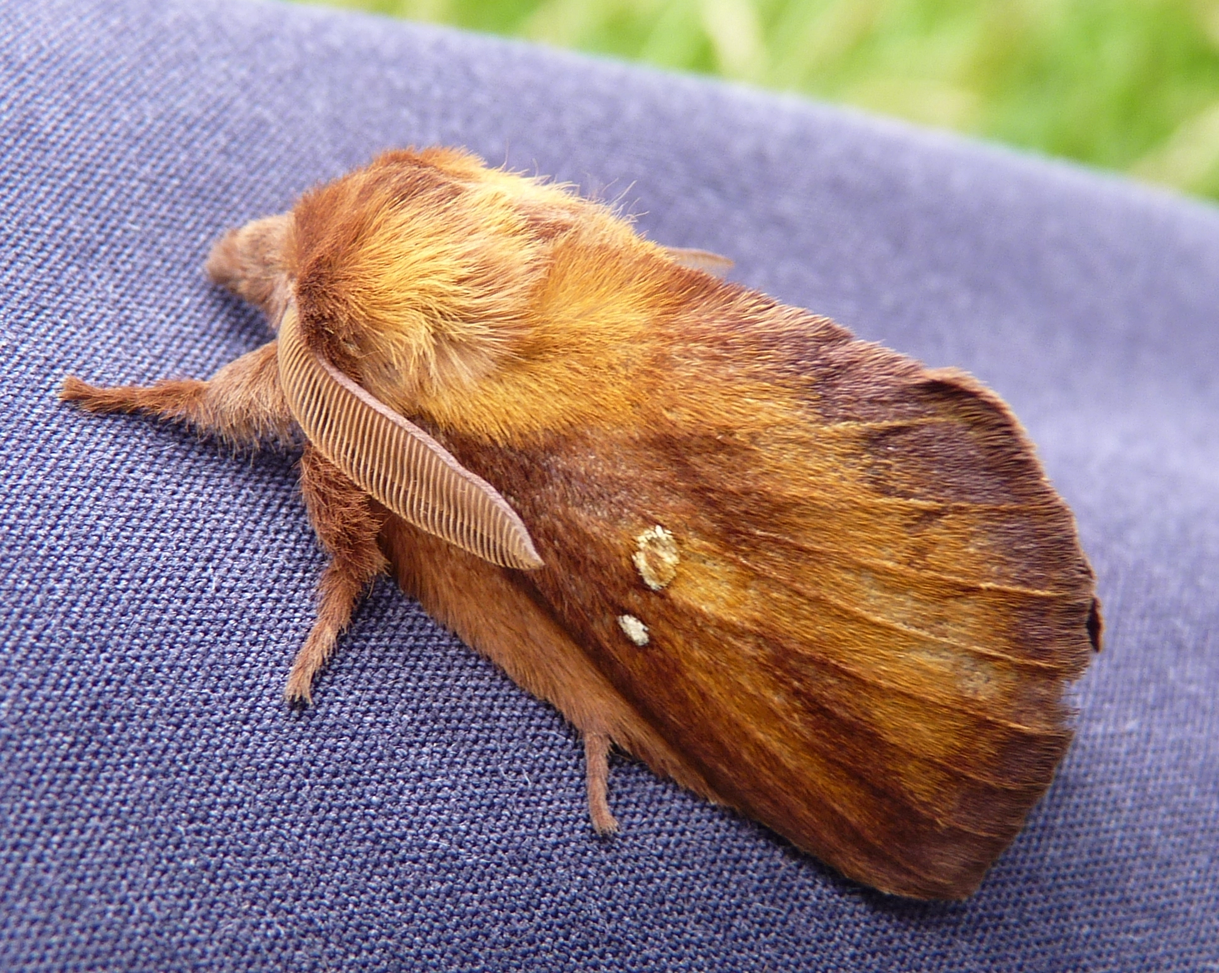
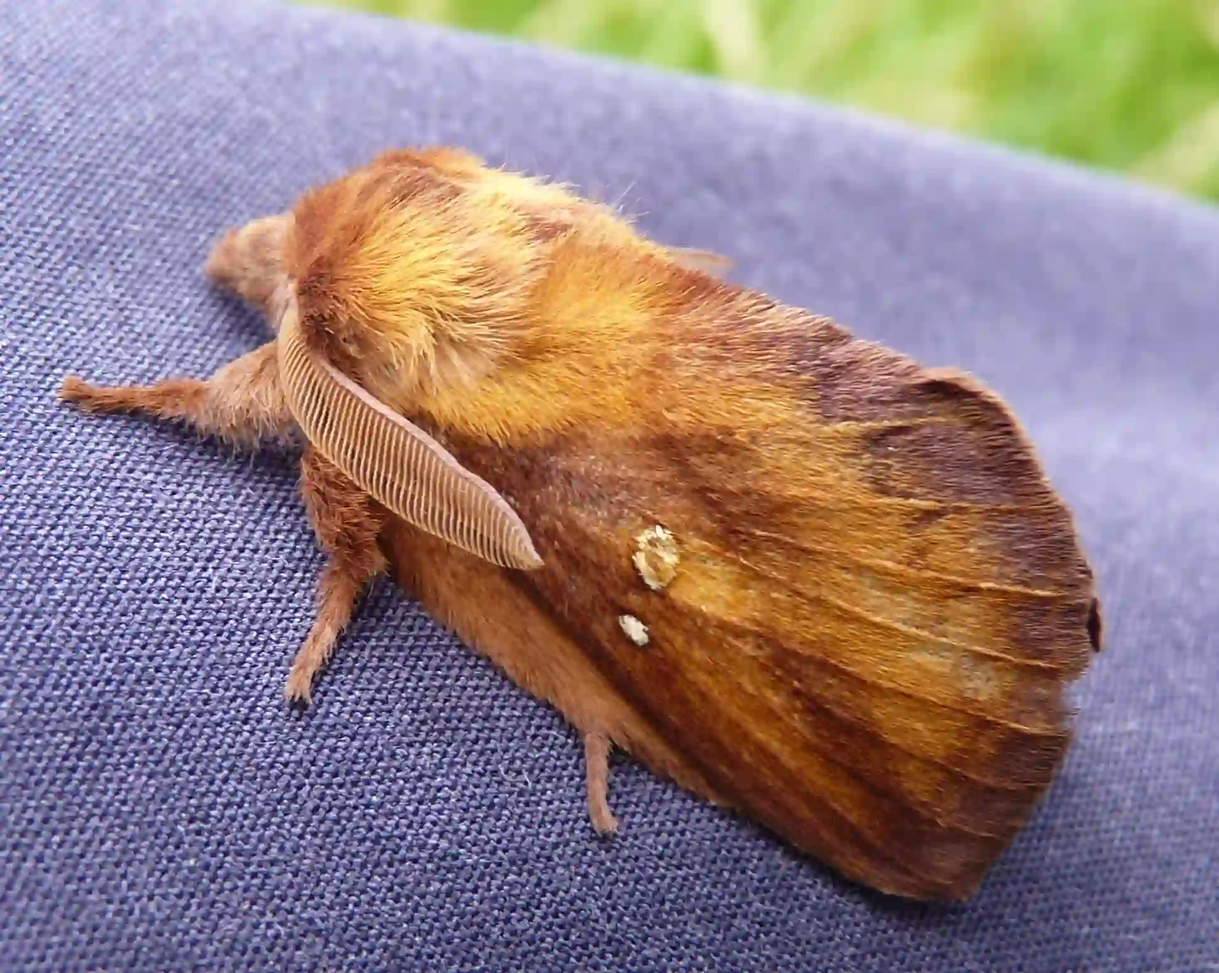
W06 Project: Final Fix Up

diff --git a/project/index.html b/project/index.html
@@ -34,8 +34,8 @@
     <main class="indexmain">
         <div class="hero">
             <picture>
-                <source srcset="images/hero.png" media="(min-width: 500px)">
-                <img src="images/hero-small.png" alt="hero image">
+                <source srcset="images/hero.webp" media="(min-width: 500px)">
+                <img src="images/hero-small.webp" alt="hero image">
             </picture>
         </div>
 
